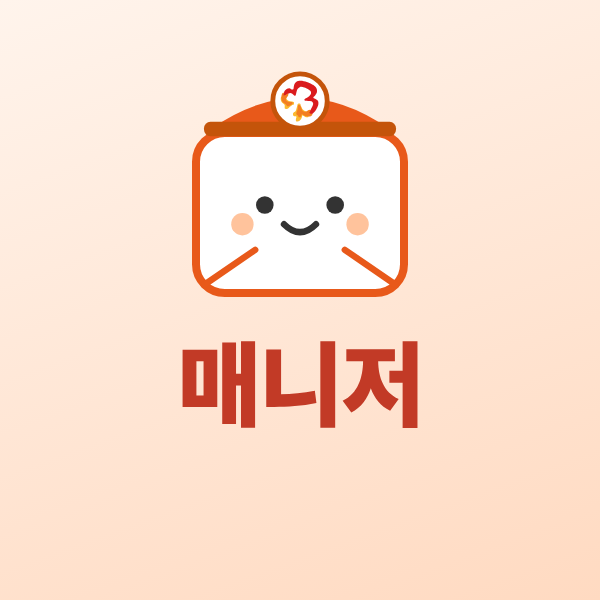
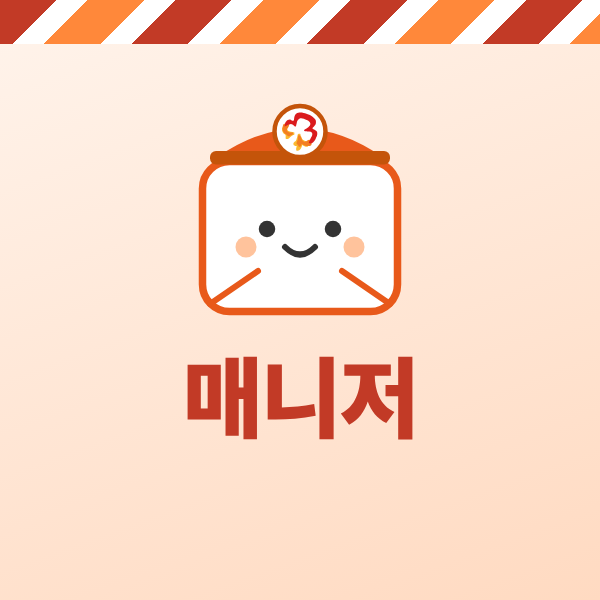
매니저 아이콘 위쪽에 우체국 사선띠 추가(설정 톱니 자리와 겹치지 않게)
Claude-Session: https://claude.ai/code/session_01NDkHExbD7sg1GRU5d1kqZi

diff --git a/cafe/assets/icon-manager.html b/cafe/assets/icon-manager.html
@@ -1,9 +1,9 @@
 <!doctype html><html lang="ko"><head><meta charset="utf-8"><style>
 *{margin:0;padding:0;box-sizing:border-box}body{font-family:'Noto Sans CJK KR',sans-serif;overflow:hidden}
 .i{position:relative;width:600px;height:600px;background:linear-gradient(160deg,#FFF4EC 0%,#FFDAC1 100%);display:flex;flex-direction:column;align-items:center;justify-content:center;overflow:hidden}
-.stripe{position:absolute;left:0;right:0;bottom:0;height:30px;background:repeating-linear-gradient(135deg,#C23A26 0 40px,#fff 40px 62px,#FF883A 62px 102px,#fff 102px 124px)}
-svg{width:320px;height:288px;margin-top:-130px}
-p{margin-top:0;font-size:92px;font-weight:900;color:#C23A26;letter-spacing:-.03em;line-height:1}
+.stripe{position:absolute;left:0;right:0;top:0;height:44px;background:repeating-linear-gradient(135deg,#C23A26 0 40px,#fff 40px 62px,#FF883A 62px 102px,#fff 102px 124px)}
+svg{width:300px;height:270px;margin-top:-84px}
+p{margin-top:0;font-size:88px;font-weight:900;color:#C23A26;letter-spacing:-.03em;line-height:1}
 </style></head><body><div class="i">
[1 lines of base64/hex data omitted]
-<p>매니저</p></div></body></html>
+<p>매니저</p><span class="stripe"></span></div></body></html>
